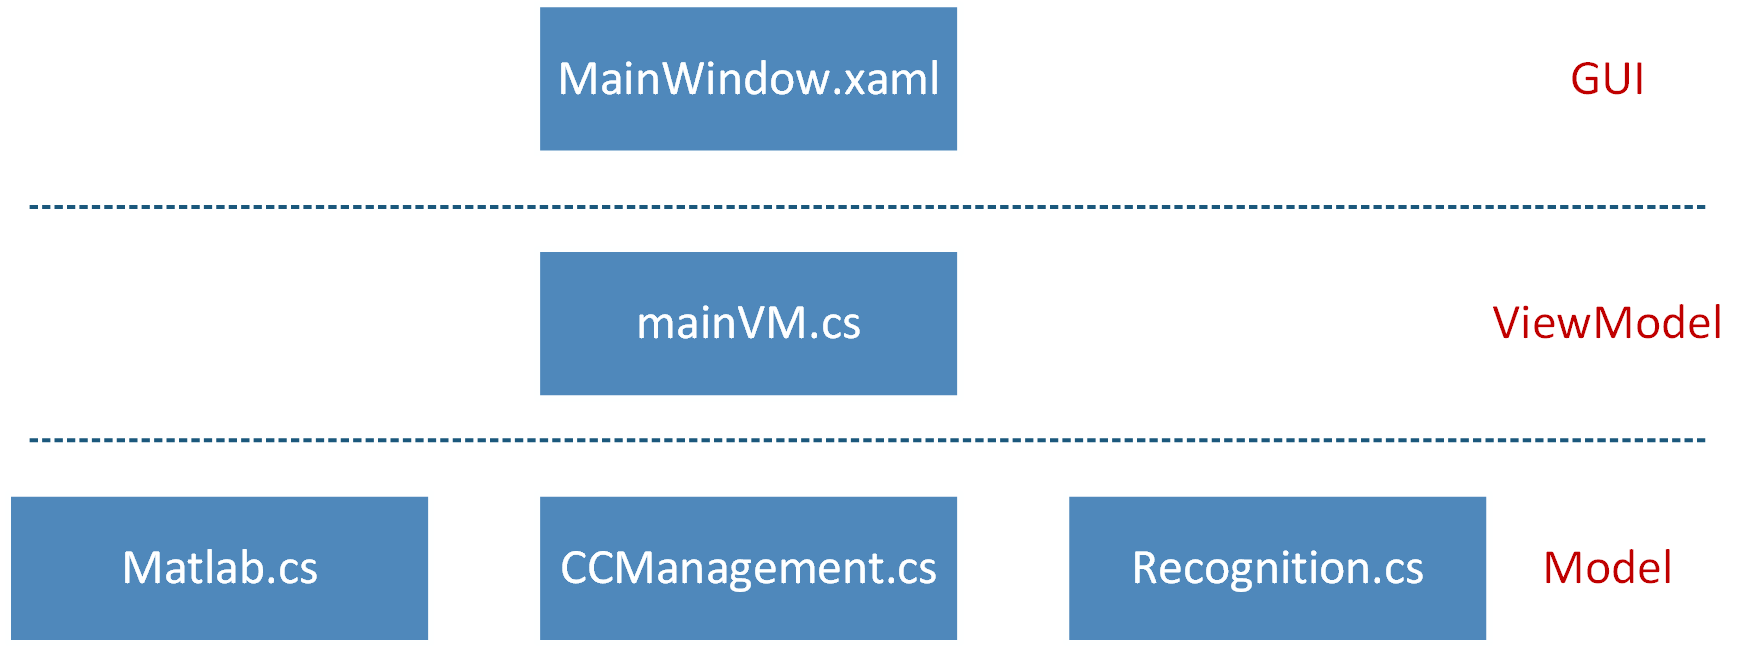
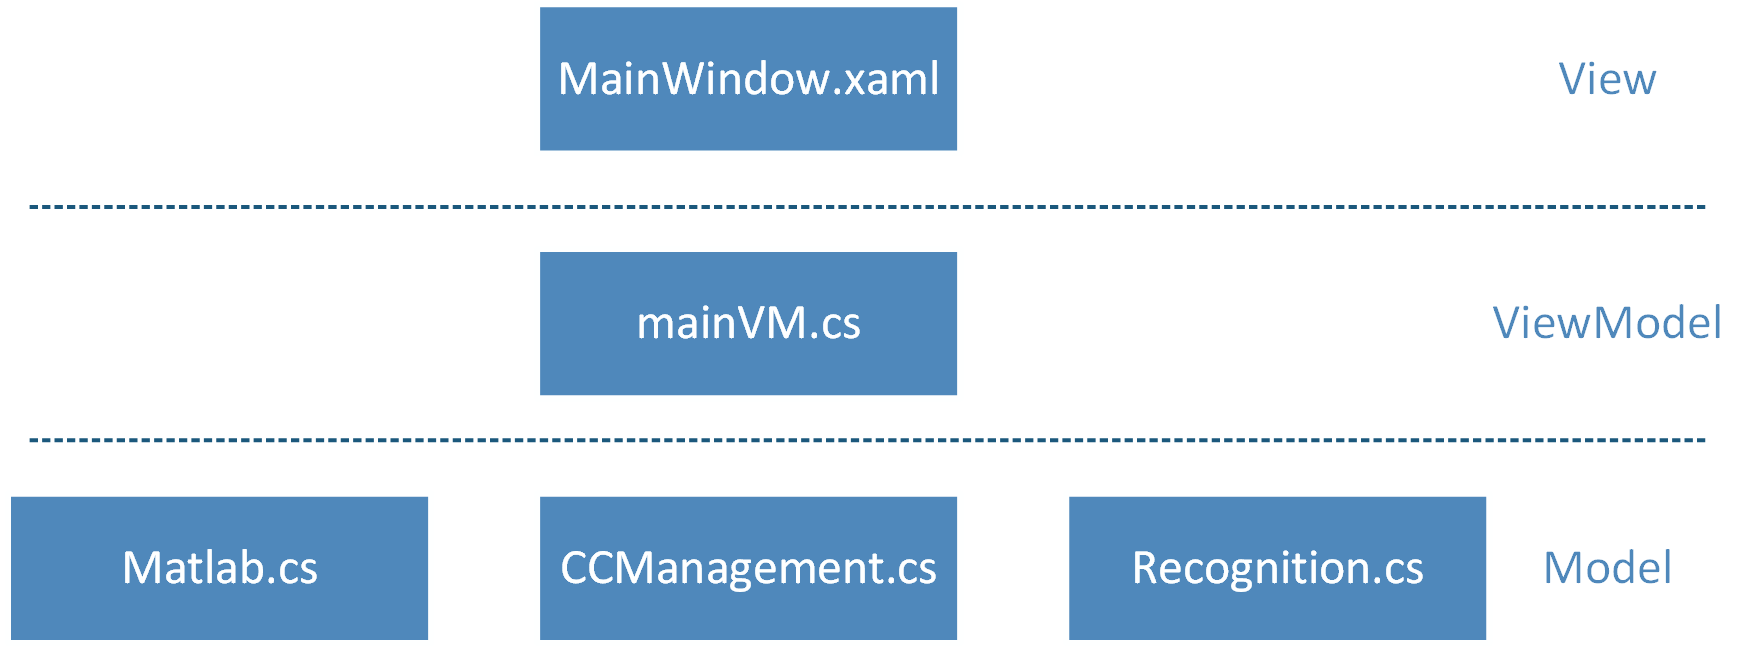
Testapplikation afsnit update

Changed region(s): [[0.8317, 0.4637, 0.9857, 0.5255], [0.8933, 0.0927, 0.9549, 0.1546], [0.8625, 0.8346, 0.9549, 0.8964]]

diff --git a/ProjektRapport/chapter/testapplikation.tex b/ProjektRapport/chapter/testapplikation.tex
@@ -6,9 +6,10 @@ Det er fra starten af projektet besluttet at applikationen til systemet udvikles
 Denne applikation stiller krav til anvendelsen af den opsamlede data og den model træning der er udviklet. Applikationen skal være i stand til at åbne og lukke CrustCrawler-kloen ved hjælp af genkendelse af poses med Myo'en. WPF er også valgt til udviklingen da det indeholder gode væktøjer til arbejde med GUI, hvilket gør at brugeren af applikationen nemt kan avende systemets funktioner.
 
 \section{Software arkitektur}
-Det er valgt til CrustCrawler Applikationen, som testapplikationen hedder, at den skal udvikles i en MVVM\footnote{Model-View-ViewModel} arkitektur. MVVM er et WPF design pattern, der er brugt i mange applikationer med grafisk brugergrænseflade. Dette er et naturligt valg da der udvikles på en XAML platform, da det gør det muligt at separere view og model-laget med en ViewModel. MVVM er et design pattern der blev udviklet hos microsoft ud fra Model-View-Presenter arkitekturen.Det er i modellen at applikationens funktionaliteten ligger. De er begge koblet sammen af en ViewModel. Dette gør udviklingen af applikationen mere overskuelig og nem at gå til.
+Det er valgt til CrustCrawler Applikationen, som testapplikationen hedder, at den skal udvikles i en MVVM\footnote{Model-View-ViewModel} arkitektur. MVVM er et WPF design pattern, der er brugt i mange applikationer med grafisk brugergrænseflade. Dette er et naturligt valg da der udvikles på en XAML platform. .xaml filen er view'et og det bliver muligt at separere view og model-laget med en ViewModel. MVVM er et design pattern der blev udviklet hos microsoft ud fra Model-View-Presenter arkitekturen.Det er i modellen at applikationens funktionaliteten ligger. De er begge koblet sammen af en ViewModel. Dette gør udviklingen af applikationen mere overskuelig og nem at gå til.
 
-\myFigure{MVVM}{MVVM Arkitektur}{fig:mvvm}{0.8}
+\myFigure{MVVM}{Den implementerede arkitektur i applikationen. View'et er adskildt fra modellen med en ViewModel. Modellen er delt op i flere klasser for at opfylde SOLID pricipperne hvor det giver mening i applikationen}{fig:mvvm}{0.8}
+\todokr{lave reference i figurteksten til design bogen og ret GUI til View}
 
 På figur \ref{fig:mvvm} ses den overordnede struktur i hvordan klasserne er placeret. Denne figur er for at give et lille overblik, og der er derfor ikke taget alle klasser med. Modellen som består af flere forskellige klasser er altså vha. MVVM separeret fra viewet som er .xaml-filen MainWindow.xaml.\\
 Under udviklingen er der taget højde for Single Responsebility \cite{SingleRespons}, og dermed er klasser opdelt i projektet sådan at de har hvert deres ansvar. Matlab.cs sørger for alt kommunikation med matlab, hvilket er herigennem der sendes kommandoer til CrustCrawleren, dette er der beskrevet mere om i afsnit \ref{sec:ktc}. I denne klasse initialiseres og startes matlab, og kommandoer sendes også til Matlab herfra. CCManagement.cs, er her metoderne til de forskellige kommandoer kan kaldes fra. Der kaldes fx. metoden OpenClaw() når CrustCrawler kloen skal åbnes. CCManagement.cs Kalder matlab.cs som sender kommando til Matlab. I Klassen recognition.cs sker alt genkendelsen af håndryk igennem EMG dataen
@@ -19,13 +20,15 @@ GUI'en i applikationen er lavet meget simpel. Den bærer præg af at være til f
 Knapperne Sart og stop recognition er her hvor den egentligt anvendelse af den opsamlede data og de udviklede modeller foregår. Ved tryk på "Start Recognition" vil "Window Count" og "Current Window" begynde at tælle op. Ét vindue er sekvens af samples, der genkendes ud fra. "Window Count" er alle de vinduer der er samlet med samples, mens "Current Window" er det aktuelle vindue der bliver genkendt på.
 
 \section{Genkendelse}
-For der kan genkendes håndtryk skal der være noget at stille de data op i mod, som kommer fra Myo'en. Det er her alt den opsamlede data der er lavet en model af bruges. Dataen der kommer direkte fra myoen, bliver sat op imod den trænede model der er blevet gennemgået i kapitel , og der bliver set på hvilken den mest ligner. 
+For der kan genkendes håndtryk skal der være noget at stille de data op i mod, som kommer fra Myo'en. Det er her alt den opsamlede data der er trænet en model på bruges. Dataen der kommer direkte fra myoen, bliver sendt fra applikationen sat op imod den trænede model der er blevet gennemgået i kapitel \ref{chp:mlm}, og der bliver set på hvilken den mest ligner. 
+
 \myFigure{SekvensDiagramRecognition}{Flow der gennemgåes ved start af genkendelse. Ved tryk på Start Recognition, sendes command til ViewModel der Starter recognition i Recognition klassen, som laver genkendelsen på signalerne fra Myo'en. Alt efter hvilken pose der genkendes, vil CCManagement lytte hertil og kalde funktionen der matcher genkendelsen.}{fig:sdr}{1}
+
 
 
 \section{Kommunikation med CrustCrawler}
 \label{sec:ktc}
-Som nævnt tidligere foregår alt kommunikation med CrustCrawleren igennem matlab.cs. Her sørges der for at kalde funktioner i en MATLAB Automation server\footnote{Fremover nævnt som MATLAB server} der bliver åbnet under initieringen af matlab.cs. På sekvens diagrammet på figur \ref{fig:sd} ses de kald der bliver foretaget i tilfældet at kloen på CrustCrawleren skal åbnes.
+Som nævnt tidligere foregår alt kommunikation med CrustCrawleren igennem matlab klassen. Her sørges der for at kalde funktioner i en MATLAB Automation server\footnote{Fremover nævnt som MATLAB server} der bliver åbnet under initieringen af matlab klassen. På sekvens diagrammet på figur \ref{fig:sd} ses de kald der bliver foretaget i tilfældet at kloen på CrustCrawleren skal åbnes.
 
 \myFigure{Sekvensdiagram}{OpenClaw() i CCManagement klassen kaldes, som kontakter Matlab.cs da der skal kontakt til MATLAB serveren. MATLAB serveren bliver kaldt og i MATLAB er der udviklet funktioner til at manøvrere CrustCrawleren rundt og styre kloen. Funktionen OpenClaw() i MATLAB serveren kalder funktionen MoveServo(), denne skriver ud til CrustCrawleren at servo nummer 7 skal køre til en bestemt anvist position.}{fig:sd}{1}
 
@@ -35,3 +38,12 @@ Processen for at kunne kalde funktioner lavet i MATLAB fra WPF applikationen for
 	\item Set sti til mappe hvor MATLAB funktioner ligger
 	\item Der kan nu Kaldes funktioner lavet i MATLAB
 \end{enumerate}
+
+\myWrapFigure{USB2Dynamixel}{USB2Dynamixel bruges for at lave en seriel port fra en af computerens USB porte}{hej}{0.5}{r}
+
+CrustCrawleren tilkobles computeren gennem en USB2Dynamixel, se figur \ref{fig:usb2d}. USB2Dynamixel er brugt for at lave en seriel port igennem computerens USB port. Til denne er en driver og et .dll bibliotek, med en tilhørende headerfil. Dynamixel.dll og dynamixel.h. Disse filer loades begge i MATLAB koden, hvor biblioteket giver mulighed for at kalde nogle forskellige funktioner som CrustCrawleren kan reagere på. Driveren er "USB2Dynamixel" [\cite{usb2dynamixel}] \todokr{lav reference til manual hvis denne laves}
+
+%\myFigure{USB2Dynamixel}{Figurtekst}{fig:usb2d}{0.3}
+
+\section{Delkonklusion}
+Det er nu muligt som bruger med denne applikation og en Myo at genkende håndrikkene åben hånd og lukket hånd, vha. en trænet machine learning model. Genkendelsen anvendes på en CrustCrawler robot arm, der åbnet og lukkes alt efter genkendelsen.

diff --git a/CrustCrawlerApp/CCController/posePredictor.m b/CrustCrawlerApp/CCController/posePredictor.m
@@ -1,4 +1,4 @@
-function abe = posePredictor(emg1CollectionInput,emg2CollectionInput,emg3CollectionInput,...
+function currentPose = posePredictor(emg1CollectionInput,emg2CollectionInput,emg3CollectionInput,...
     emg4CollectionInput,emg5CollectionInput,emg6CollectionInput,emg7CollectionInput,emg8CollectionInput,orientation)
 
 emg1Collection = [];
@@ -34,5 +34,5 @@ newPoseTrainingData = [meanData stdData cpaData table(orientation)];
 load('baggedTreesMkIIICompacted')
 predictedCats = baggedTreesMkIIICompacted.predictFcn(newPoseTrainingData);
 % abe = char(predictedCats(1));
-abe = getPoseId(baggedTreesMkIIICompacted.ClassificationEnsemble.ClassNames,predictedCats(1));
+currentPose = getPoseId(baggedTreesMkIIICompacted.ClassificationEnsemble.ClassNames,predictedCats(1));
 end
